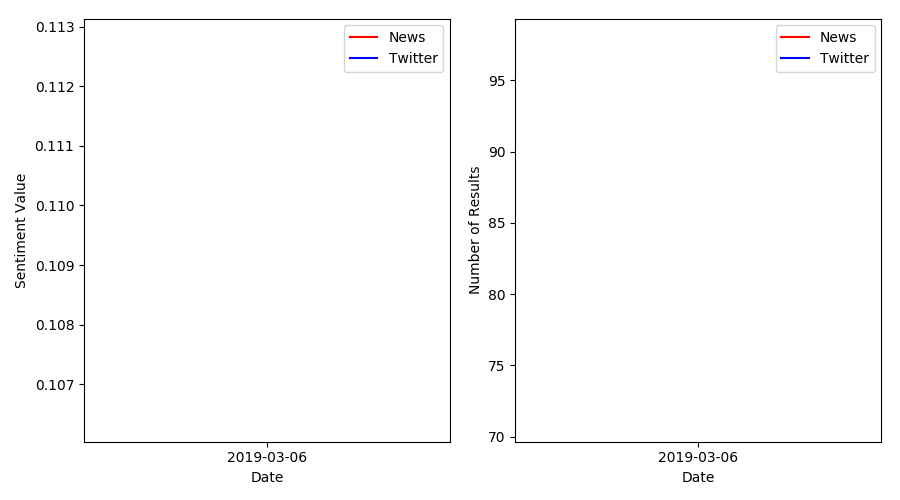
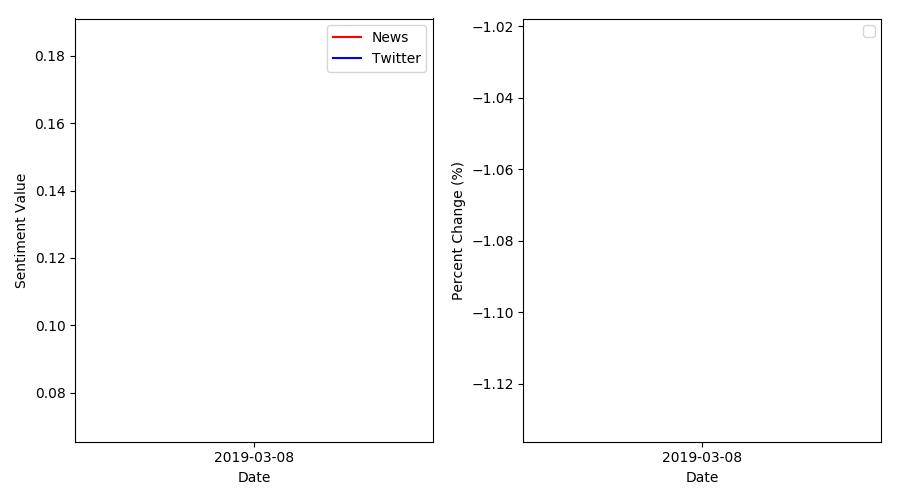
fixed plotting for new schema

diff --git a/twitter.py b/twitter.py
@@ -34,13 +34,11 @@ def getTwitterRating(ticker, full_name):
     query = ticker + " AND " + full_name
 
     # only get tweets from the past 5 days
-    oldest = datetime.date(datetime.now() - timedelta(hours=config.num_hours))
+    oldest = datetime.date(datetime.now() - timedelta(hours=24))
 
     # return the 100 most recent results (popular)
     results = api.search(q=query, count=100, since=oldest, tweet_mode="extended",
         result_type="mixed", include_entities=False)
-
-    print(results)
 
     # Keep running total of sentiment values
     sentiment = 0
@@ -68,7 +66,3 @@ def getTwitterRating(ticker, full_name):
         return  0
     else:
         return sentiment / count
-
-# when the file is called, will update both tables and plots
-if __name__ == "__main__":
-    getTwitterRating('INTC', 'Intel')

diff --git a/plot.py b/plot.py
@@ -13,6 +13,7 @@ def singleStockLineGraph(data):
     twitter_sent = []
     percent_change = []
     for entry in data:
+        dates.append(entry[4])
         twitter_sent.append(entry[1])
         news_sent.append(entry[2])
         percent_change.append(entry[3])
@@ -39,7 +40,6 @@ def singleStockLineGraph(data):
     plt.ylabel('Percent Change (%)')
     plt.xlabel('Date')
     plt.xticks(dates)
-    plt.legend()
     plt.tight_layout()
 
     # return the plot
